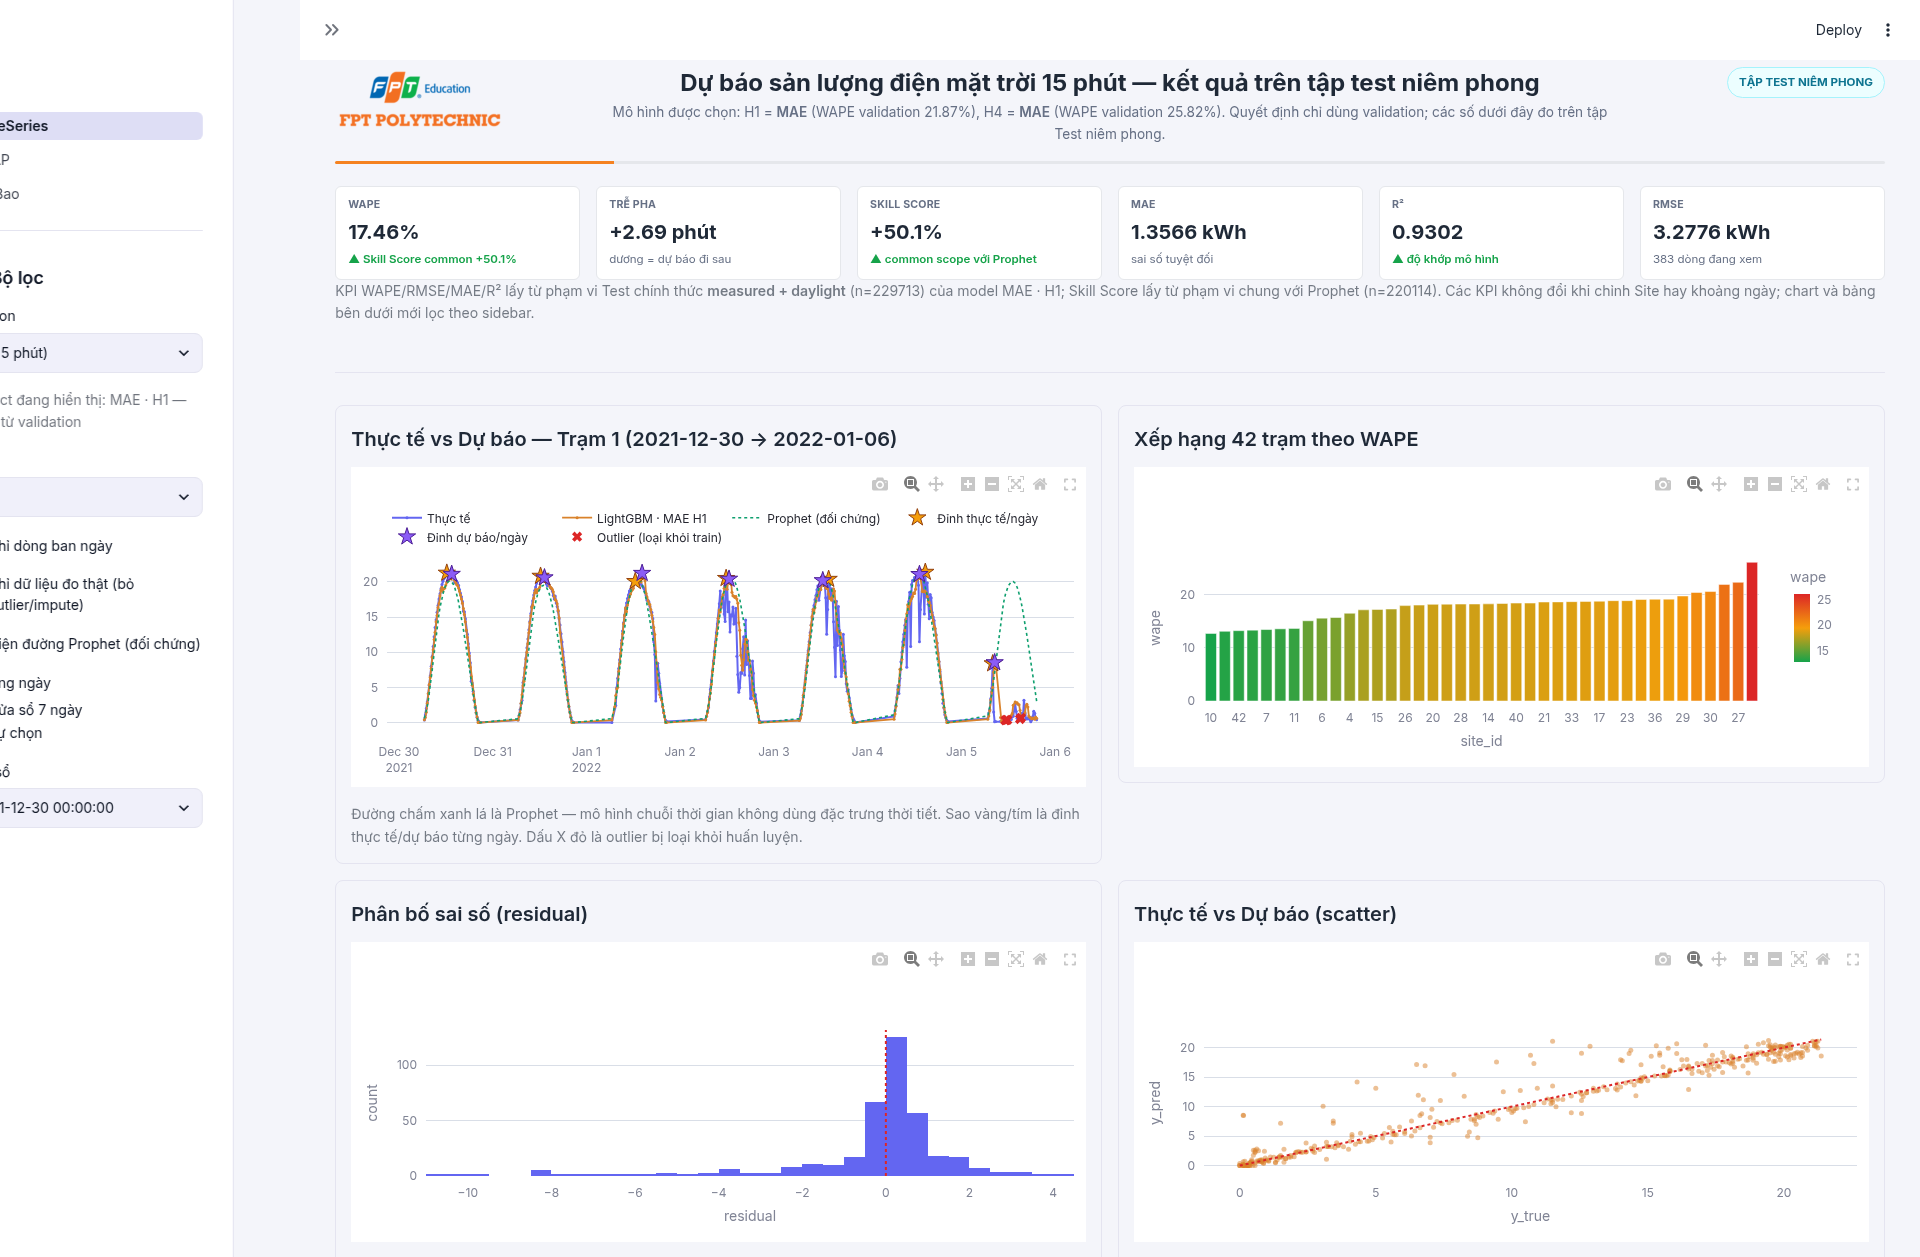
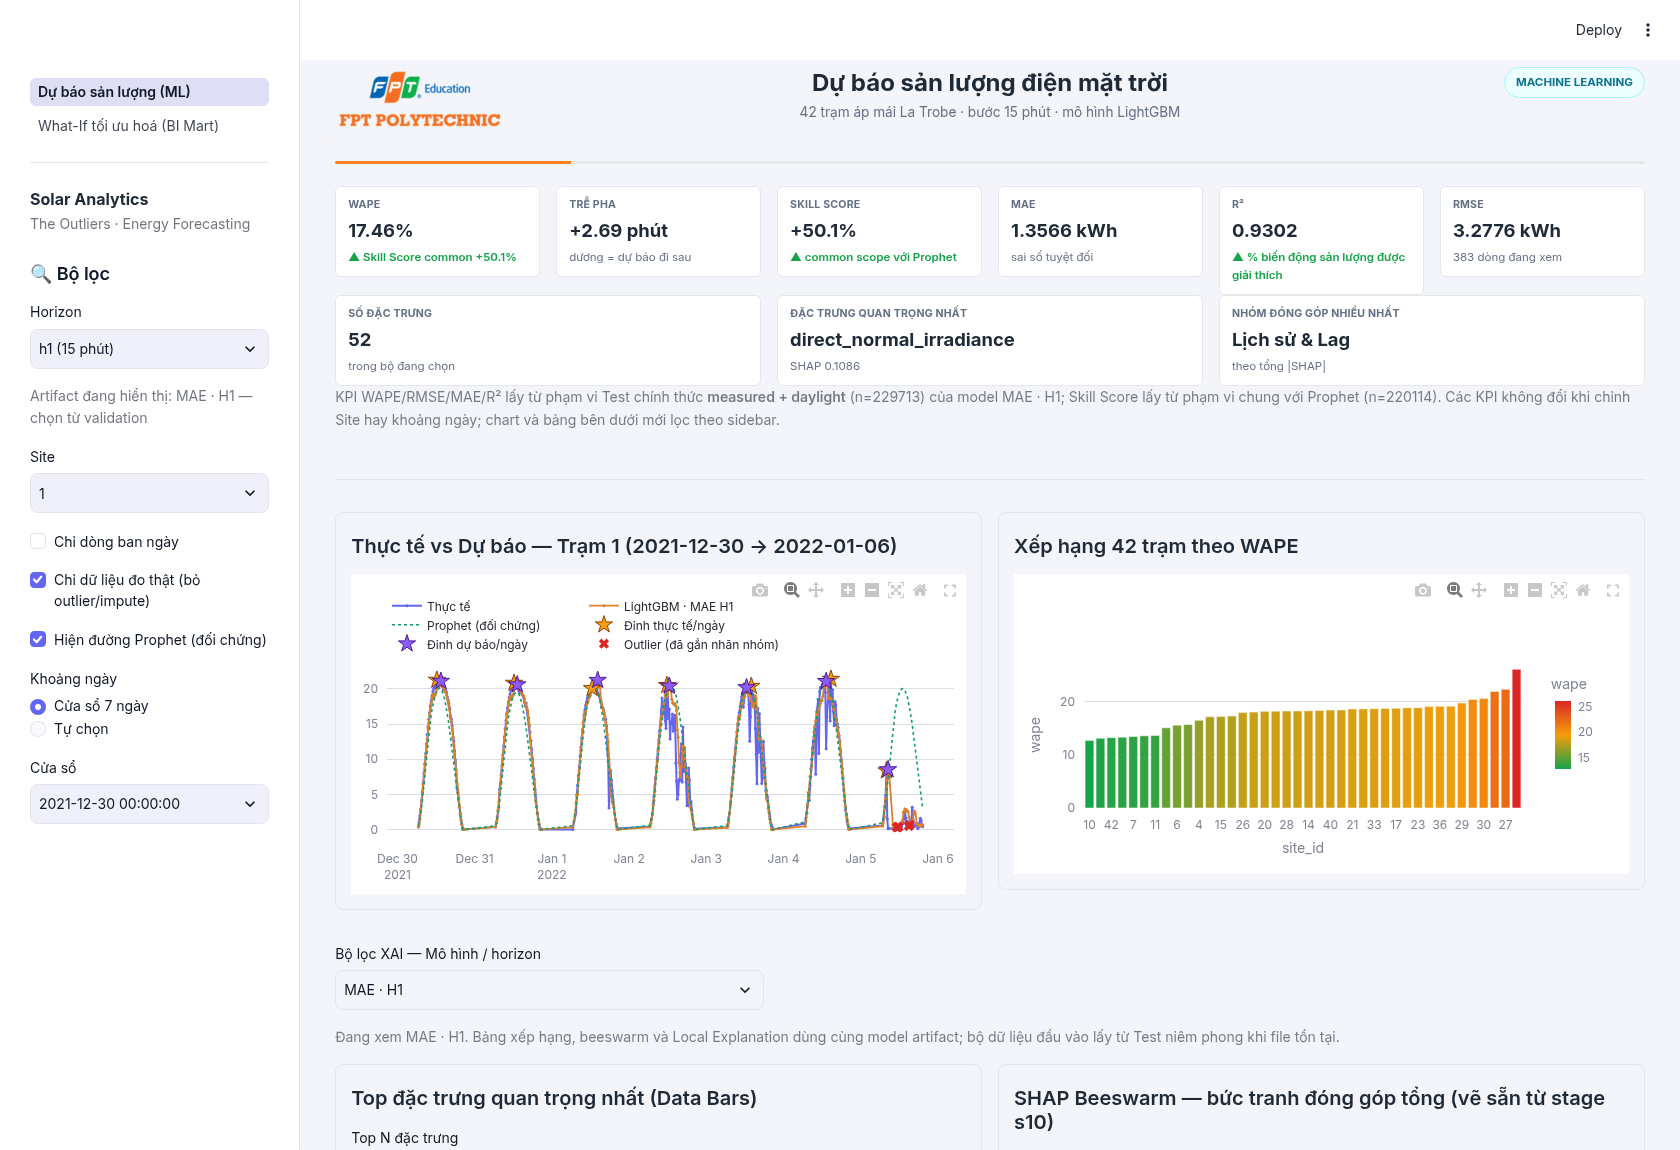
no tickets

diff --git a/reports/DATN_REPORT_FINAL_03.tex b/reports/DATN_REPORT_FINAL_03.tex
@@ -4940,7 +4940,7 @@ Mục này tổng kết các kết quả kỹ thuật của quy trình học má
 \FloatBarrier
 \subsection{Kết quả Đạt được Về Mặt Kỹ thuật}
 
-Quy trình đã xây dựng thành công một mô hình LightGBM dùng chung cho $40$ trạm quang điện áp mái (sau khi loại 2 trạm đối chứng khí tượng), đạt $\text{WAPE} = 17{,}73\%$ ở tầm $15$ phút ($R^2 = 0{,}9283$) và $22{,}58\%$ ở tầm $1$ giờ ($R^2 = 0{,}8964$) trên tập test niêm phong ở phạm vi đo thật ban ngày. So với mô hình đường cơ sở Prophet trên cùng tập dữ liệu kiểm tra, chỉ số kỹ năng dự báo (Skill Score) của LightGBM đạt mức vượt trội $+48{,}73\%$ ở tầm ngắn hạn và $+35{,}89\%$ ở tầm một giờ.
+Quy trình đã xây dựng thành công một mô hình LightGBM dùng chung cho $40$ trạm quang điện áp mái (sau khi loại 2 trạm đối chứng khí tượng), đạt $\text{WAPE} = 17{,}46\%$ ở tầm $15$ phút ($R^2 = 0{,}9302$) và $21{,}60\%$ ở tầm $1$ giờ ($R^2 = 0{,}9002$) trên tập test niêm phong ở phạm vi đo thật ban ngày. So với mô hình đường cơ sở Prophet trên cùng tập dữ liệu kiểm tra, chỉ số kỹ năng dự báo (Skill Score) của LightGBM đạt mức vượt trội $+50{,}09\%$ ở tầm ngắn hạn và $+37{,}80\%$ ở tầm một giờ.
 
 Năm rào chắn chống rò rỉ dữ liệu ở Mục~\ref{subsec:nam_rao_chan} đã được kiểm chứng nghiêm ngặt bằng số liệu: phép ghép thời tiết nhân quả đưa số dòng vi phạm rò rỉ tương lai về $0$; thống kê quy mô trạm được tính toán độc lập theo từng fold; cận cắt được suy luận từ phân vị của tập huấn luyện; và tập test chỉ được mở duy nhất một lần ở bước đánh giá cuối cùng.
 
